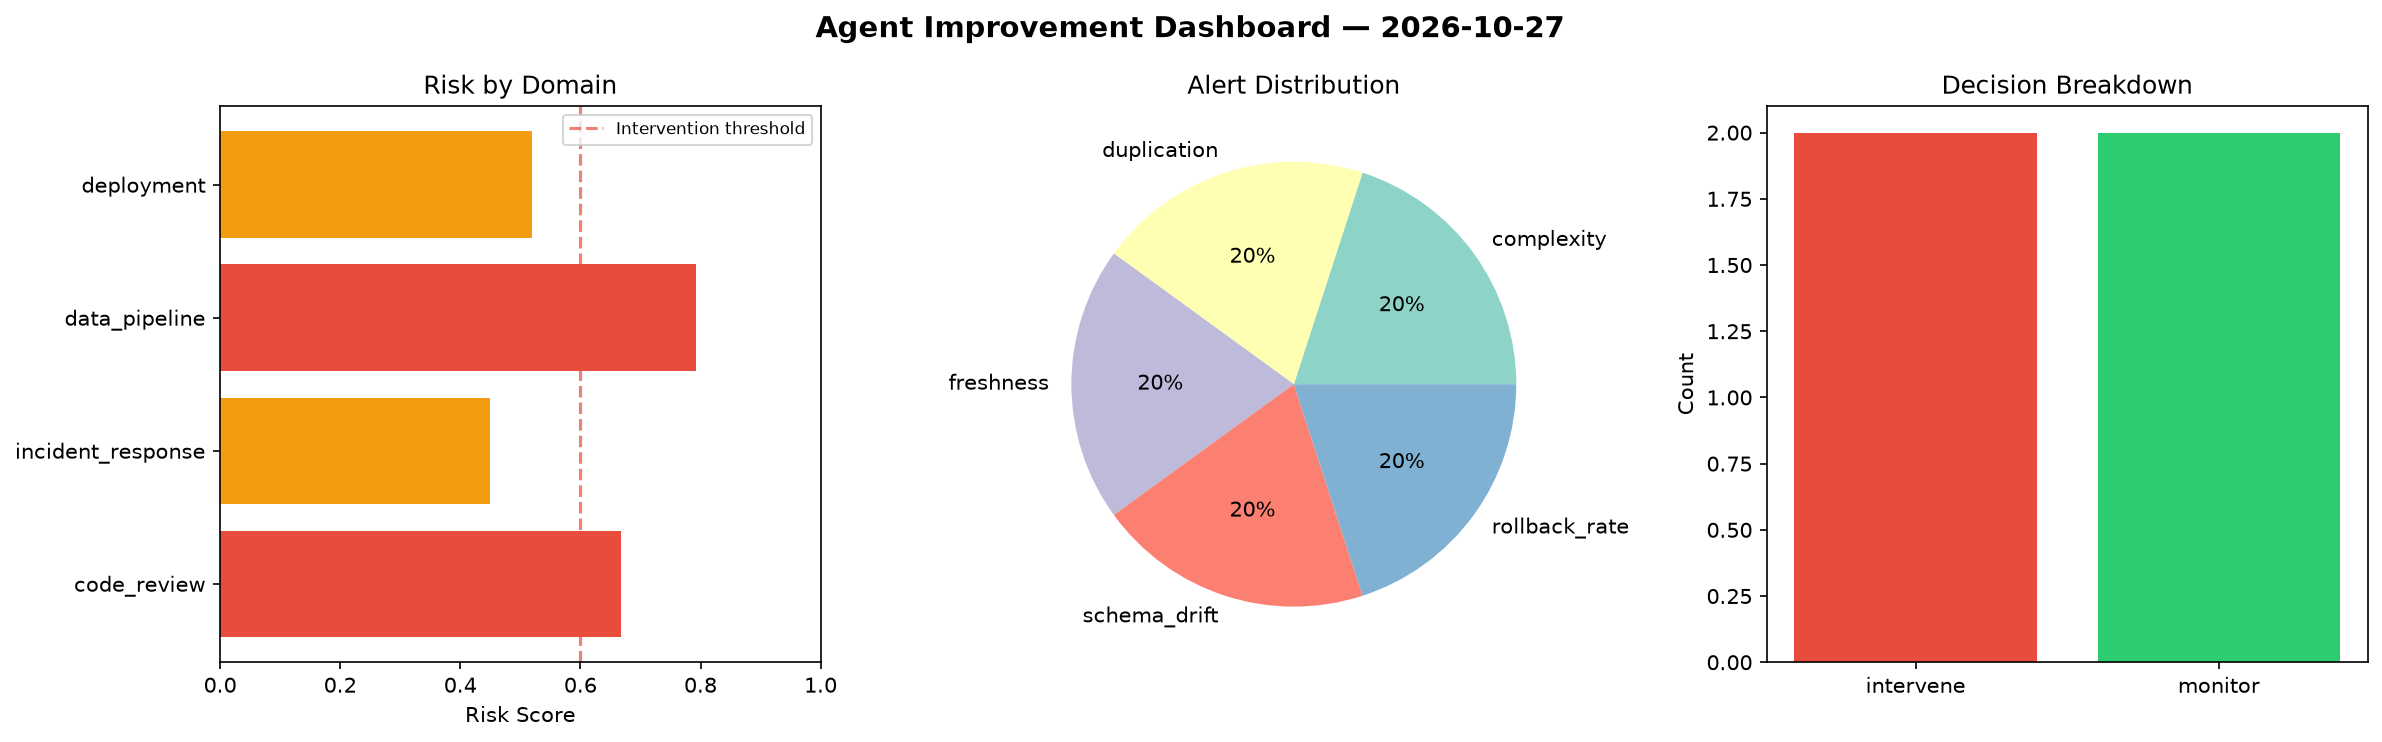
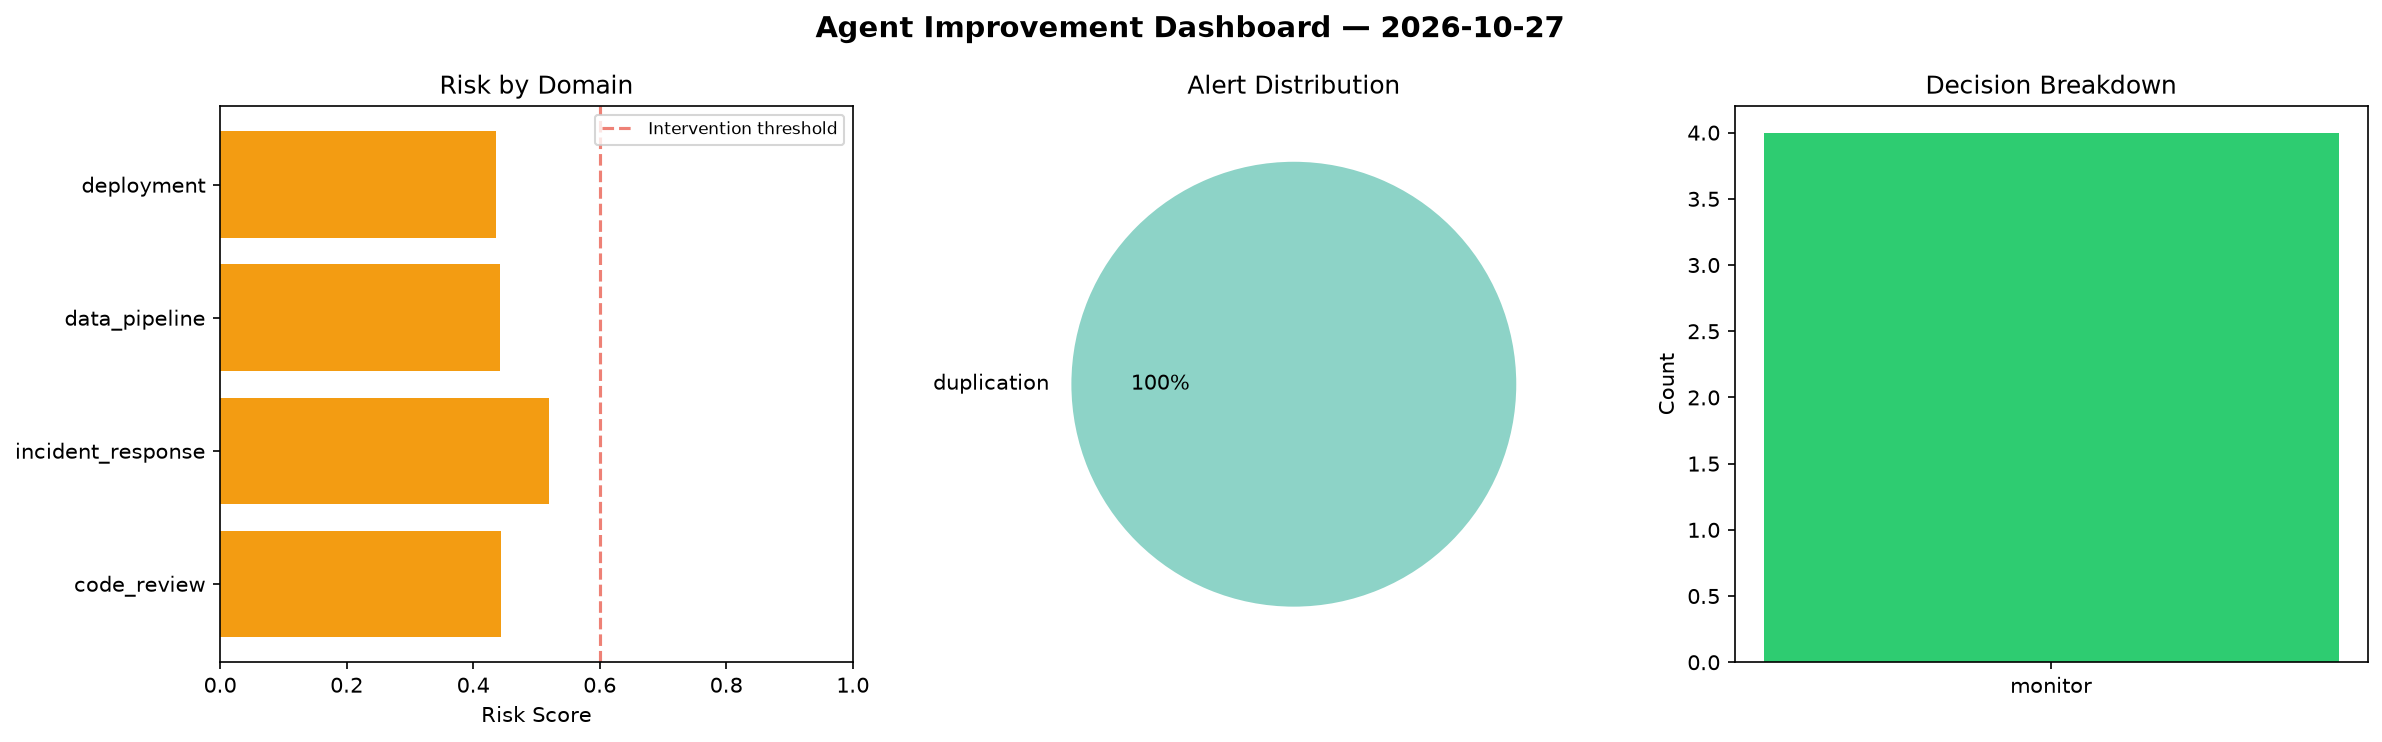
agent-improvement: daily cycle 2026-10-27T19:26

diff --git a/logs/2026-10-27.md b/logs/2026-10-27.md
@@ -1,6 +1,6 @@
 # Agent Improvement Report — 2026-10-27
 
-**Cycle ID:** `ff2adf1d` | **Avg Risk:** 0.607 | **Interventions:** 2/4
+**Cycle ID:** `02a11d94` | **Avg Risk:** 0.4608 | **Interventions:** 0/4
 
 ![Dashboard](2026-10-27_dashboard.png)
 
@@ -10,18 +10,18 @@
 
 | Domain | Risk Score | Decision | Alerts |
 |--------|-----------|----------|--------|
-| code_review | 0.6681 | intervene | complexity, duplication |
-| incident_response | 0.4492 | monitor | none |
-| data_pipeline | 0.7918 | intervene | freshness, schema_drift |
-| deployment | 0.5188 | monitor | rollback_rate |
+| code_review | 0.4446 | monitor | duplication |
+| incident_response | 0.5193 | monitor | none |
+| data_pipeline | 0.4428 | monitor | none |
+| deployment | 0.4365 | monitor | none |
 
 ## Delta vs Yesterday
 
 | Domain | Today | Yesterday | Change |
 |--------|-------|-----------|--------|
-| code_review | 0.6681 | 0.4622 | 📈 44.5% |
-| incident_response | 0.4492 | 0.6893 | 📉 -34.8% |
-| data_pipeline | 0.7918 | 0.5245 | 📈 51.0% |
-| deployment | 0.5188 | 0.4574 | 📈 13.4% |
+| code_review | 0.4446 | 0.4622 | 📉 -3.8% |
+| incident_response | 0.5193 | 0.6893 | 📉 -24.7% |
+| data_pipeline | 0.4428 | 0.5245 | 📉 -15.6% |
+| deployment | 0.4365 | 0.4574 | 📉 -4.6% |
 
 **Refinement:** `{'adjustment': 'maintain', 'trend': 'improving', 'window': 4}`
